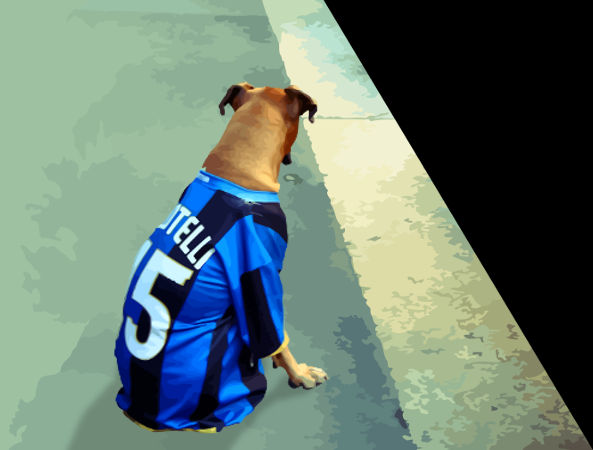
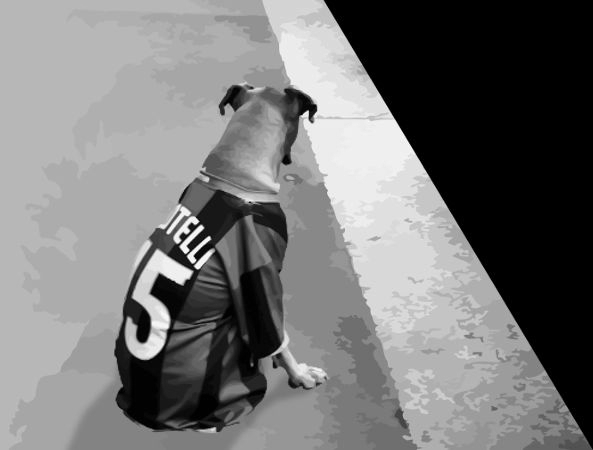
added large picture layout for pages. Turned progetto picture to bw

diff --git a/_layouts/page.html b/_layouts/page.html
@@ -2,29 +2,33 @@
 <html lang="en" class="page {{page.pid}}">
 
 {% include head.html %}
-    
+
 <body>
 {% include header.html %}
+{% if page.header == 'large-picture' %}
+{% include jumbotron_large_picture.html %}
+{% else %}
 {% include jumbotron_min.html %}
+{% endif %}
 
 <div class="content-wrapper page post">
     <section>
         <div class="container">
             <div class="row">
-                <div class="post-section col-xs-12 col-md-offset-1 col-md-2">
-                    <div class="row post-info">
-                        <div class="title col-xs-12">
-                            <h3>{{page.title}}</h3>
-                            <p><em>{{page.description}}</em></p>
-                            
-                        </div>
-                        {% if page.no_social != true %}
-                        <div class="col-xs-12 social">
-                            {% include social.html %}
-                        </div>
-                        {% endif %}
-                    </div>
-                </div>
+              <div class="post-section col-xs-12 col-md-offset-1 col-sm-2">
+                  <div class="row post-info">
+                      <div class="col-xs-12">
+                        <h3>{{page.title}}</h3>
+                        <p><em>{{page.description}}</em></p>
+                      </div>
+                      {% if page.no_social != true %}
+                      <div class="col-xs-12 social">
+                          {% include social.html %}
+                      </div>
+                      {% endif %}
+                  </div>
+              </div>
+                
                 <div class="col-xs-12 col-md-8">
                 	<div class="post-body">
     					{{ content }}

diff --git a/_includes/jumbotron_large_picture.html b/_includes/jumbotron_large_picture.html
@@ -1,0 +1,9 @@
+<div class="hidden-xs row jumbotron large-picture ">
+      <div class="hidden-xs col-xs-12 col-md-offset-1 col-md-10 container main">
+        <div class="main-bg"></div>
+      </div>
+</div>
+<div class="hidden-sm hidden-md hidden-lg jumbotron jumbotron-post">
+  <div class="container main"></div>
+  <div class="main-bg"></div>
+</div>

diff --git a/_scss/_media.scss b/_scss/_media.scss
@@ -190,6 +190,14 @@
 			background-size: auto 100%;
 			background-position: center center;
 		}
+
+		&.large-picture {
+			height: 100%;
+			padding: 0!important;
+			height: 470px !important;
+			background: transparent !important;
+			border-bottom: none;
+		}
 	}
 	.jumbotron .main-abstract {
 		bottom: 2rem;

diff --git a/_scss/_futbolismo.scss b/_scss/_futbolismo.scss
@@ -211,6 +211,7 @@ div.navbar.smaller > .container {
 		&.jumbotron-post {
 			height: calc(90vh - 140px - 60px);
 		}
+
 }
 
 .post .jumbotron {

diff --git a/chisiamo.md b/chisiamo.md
@@ -1,5 +1,6 @@
 ---
 layout: page
+header: large-picture
 title: Chi siamo
 description: Tutto sul team che ha creato Fútbolismo
 permalink: /chi-siamo/
